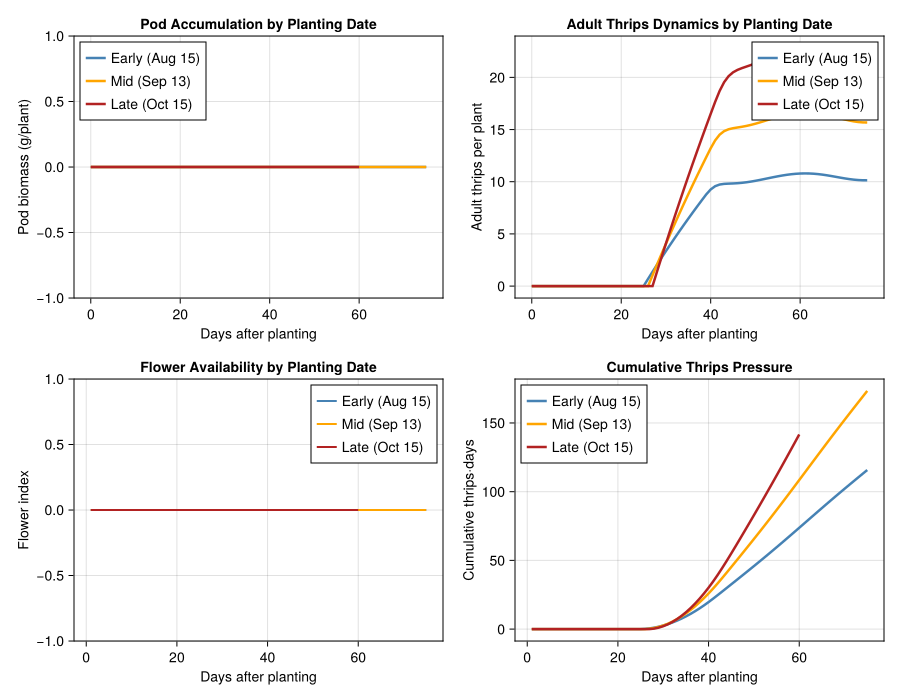
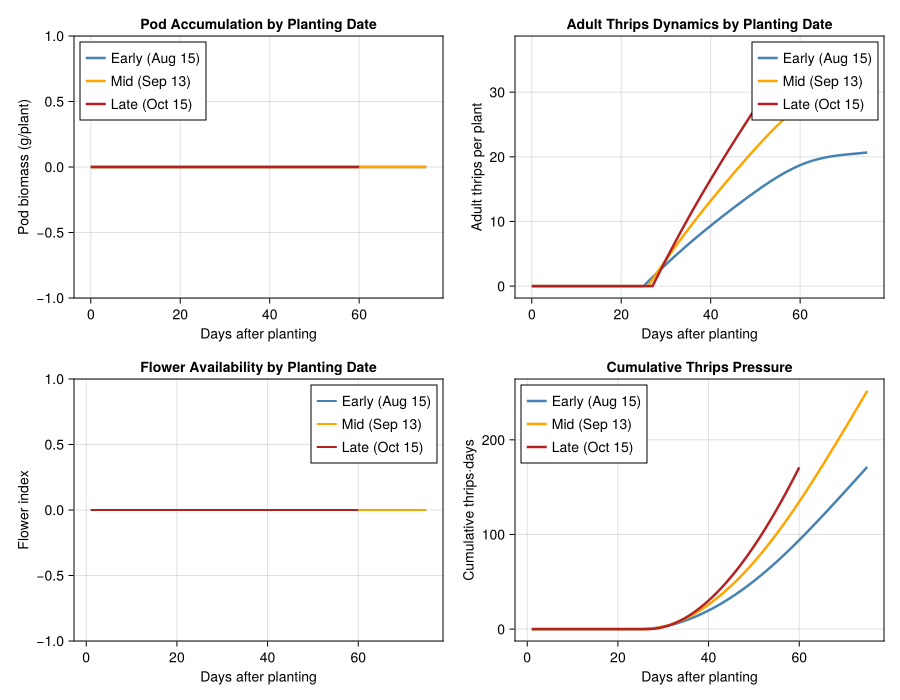
Apply paper-fidelity fixes for vignettes 14, 29, 30 from audit 1-30
Critical numerical transcription fixes:
- #14 east_coast_fever: ϑ (host recovery) 0.004087 -> 0.008087 day^-1; ρ
  (disease mortality coeff) 1.8869 -> 1.18869. Both were extra-digit
  transcription errors of Gilioli et al. (2009) Table 1, inflating
  infectious period by 2x and case fatality by ~58%.
- #30 bean_growth: removed spurious '/ (T - T_BASE + 1e-6)' divisor from
  the Q10 maintenance respiration term (Gutierrez et al. 1993 Eq. 7 has
  no such denominator); was overstating respiration near T_BASE.
- #30 bean_growth: replaced unified organ lifetimes with type-specific
  values from Gutierrez et al. 1993 Table 1 (Type I: leaf=600, stem=1000,
  root=1000 DD; Types II/III: leaf=650, stem=1200, root=1200 DD).
- #29 cowpea_thrips: corrected DD_pupa 63 -> 91.4 and DD_adult 250 -> 571
  per Tamò et al. (1993) Table 2; added disclaimer noting remaining
  pedagogical simplifications (Brière vs Logan dev, constant vs
  T-dependent mortality, quadratic vs cubic fecundity scalar).

All vignettes re-rendered cleanly; 839/839 tests pass.

diff --git a/vignettes/14_east_coast_fever/14_east_coast_fever.md b/vignettes/14_east_coast_fever/14_east_coast_fever.md
@@ -439,14 +439,14 @@ vector–host disease cycle using `VectorBorneDisease`.
 const SIGMA_TICK_TO_HOST = 0.005591     # σ, day⁻¹ — tick→cattle transmission (Table 1)
 const EPSILON_HOST_TO_TICK = 0.08271    # ε, ha day⁻¹ — cattle→tick transmission (Table 1)
 const RECOVERED_TRANSMIT_EFF = 0.009035 # transmission efficiency, recovered→tick (Table 1)
-const THETA_RECOVERY = 0.004087         # ϑ, day⁻¹ — host recovery rate (Table 1)
-const ECF_MORTALITY_COEFF = 1.8869      # ρ — disease mortality coefficient (Table 1)
-const ECF_DISEASE_MORTALITY = ECF_MORTALITY_COEFF * CATTLE_DEATH_RATE  # ρ×ω ≈ 0.001487 day⁻¹
+const THETA_RECOVERY = 0.008087         # ϑ, day⁻¹ — host recovery rate (Gilioli et al. 2009 Table 1; Gitau et al. 1999)
+const ECF_MORTALITY_COEFF = 1.18869     # ρ — disease mortality coefficient (Gilioli et al. 2009 Table 1)
+const ECF_DISEASE_MORTALITY = ECF_MORTALITY_COEFF * CATTLE_DEATH_RATE  # ρ×ω day⁻¹
 
 ecf = VectorBorneDisease(
     SIGMA_TICK_TO_HOST,      # β_vh — tick→cattle transmission rate (σ)
     EPSILON_HOST_TO_TICK,    # β_hv — cattle→tick transmission rate (ε)
-    THETA_RECOVERY,          # γ_h  — host recovery rate (mean ~245 days infectious)
+    THETA_RECOVERY,          # γ_h  — host recovery rate (mean ~124 days infectious)
     ECF_DISEASE_MORTALITY,   # μ_h  — disease-induced mortality (ρ × ω)
     21.0                     # extrinsic incubation period (trans-stadial; assumed)
 )
@@ -468,11 +468,11 @@ println("  Case fatality (approx):       $(round(ecf.μ_h / (ecf.γ_h + ecf.μ_h
       Tick→cattle transmission (σ): 0.005591 day⁻¹
       Cattle→tick transmission (ε): 0.08271 ha day⁻¹
       Recovered→tick efficiency:    0.009035
-      Recovery rate (ϑ):            0.004087 day⁻¹ (245.0 days)
-      Disease mortality (ρ×ω):      0.001487 day⁻¹
-      Mortality coefficient (ρ):    1.8869
+      Recovery rate (ϑ):            0.008087 day⁻¹ (124.0 days)
+      Disease mortality (ρ×ω):      0.000937 day⁻¹
+      Mortality coefficient (ρ):    1.18869
       Extrinsic incubation:         21.0 days
-      Case fatality (approx):       26.7%
+      Case fatality (approx):       10.4%
 
 ### Initial Disease States
 
@@ -595,11 +595,11 @@ end
     ===========================================================================
     Year | Cattle prev | Vector inf | Cattle alive | Cum deaths | Ticks/ha
     ---------------------------------------------------------------------------
-      1    | 7.7%        | 7.0%       | 213.0        | 7.0        | 24358.0
-      2    | 9.4%        | 10.0%      | 233.0        | 17.0       | 24574.0
-      3    | 9.7%        | 13.2%      | 263.0        | 30.0       | 24582.0
-      4    | 9.2%        | 16.3%      | 304.0        | 44.0       | 24570.0
-      5    | 8.4%        | 19.2%      | 360.0        | 59.0       | 24561.0
+      1    | 4.9%        | 6.5%       | 218.0        | 3.0        | 24358.0
+      2    | 4.9%        | 8.2%       | 245.0        | 7.0        | 24574.0
+      3    | 4.5%        | 9.9%       | 285.0        | 11.0       | 24582.0
+      4    | 4.0%        | 11.3%      | 338.0        | 15.0       | 24570.0
+      5    | 3.6%        | 12.6%      | 407.0        | 20.0       | 24561.0
 
 ``` julia
 fig_endemic = Figure(size=(800, 700))
@@ -687,18 +687,18 @@ end
     Monthly dynamics — Year 3:
     Month | Mean T | Ticks/ha | Cattle prev | New inf/day | Vec inf
     ---------------------------------------------------------------------------
-      Jan   | 15.5   | 23798.0  | 9.3%        | 0.12        | 10.1%
-      Feb   | 16.5   | 22661.0  | 9.2%        | 0.12        | 10.4%
-      Mar   | 18.6   | 22372.0  | 9.1%        | 0.12        | 10.7%
-      Apr   | 20.2   | 23041.0  | 9.0%        | 0.12        | 10.9%
-      May   | 20.8   | 24324.0  | 9.0%        | 0.13        | 11.2%
-      Jun   | 20.8   | 25738.0  | 9.1%        | 0.14        | 11.4%
-      Jul   | 20.6   | 26954.0  | 9.2%        | 0.15        | 11.7%
-      Aug   | 20.5   | 27777.0  | 9.4%        | 0.15        | 12.0%
-      Sep   | 20.5   | 28064.0  | 9.6%        | 0.16        | 12.2%
-      Oct   | 19.9   | 27756.0  | 9.7%        | 0.16        | 12.5%
-      Nov   | 18.3   | 26887.0  | 9.8%        | 0.15        | 12.8%
-      Dec   | 16.3   | 25565.0  | 9.8%        | 0.15        | 13.0%
+      Jan   | 15.5   | 23798.0  | 4.8%        | 0.1         | 8.3%
+      Feb   | 16.5   | 22661.0  | 4.7%        | 0.1         | 8.4%
+      Mar   | 18.6   | 22372.0  | 4.5%        | 0.1         | 8.6%
+      Apr   | 20.2   | 23041.0  | 4.4%        | 0.1         | 8.7%
+      May   | 20.8   | 24324.0  | 4.4%        | 0.11        | 8.8%
+      Jun   | 20.8   | 25738.0  | 4.4%        | 0.11        | 9.0%
+      Jul   | 20.6   | 26954.0  | 4.5%        | 0.12        | 9.1%
+      Aug   | 20.5   | 27777.0  | 4.5%        | 0.12        | 9.2%
+      Sep   | 20.5   | 28064.0  | 4.6%        | 0.12        | 9.4%
+      Oct   | 19.9   | 27756.0  | 4.7%        | 0.12        | 9.5%
+      Nov   | 18.3   | 26887.0  | 4.7%        | 0.12        | 9.6%
+      Dec   | 16.3   | 25565.0  | 4.6%        | 0.11        | 9.8%
 
 ``` julia
 yr3 = (2*365+1):(3*365)
@@ -806,23 +806,23 @@ end
     Endemic:
       Year | Prevalence | Alive  | Cumulative deaths
       -------------------------------------------------------
-        1  | 3.4%       | 253.0  | 4.5
-        2  | 3.6%       | 313.0  | 9.9
-        3  | 3.7%       | 381.0  | 16.7
+        1  | 2.1%       | 256.0  | 2.1
+        2  | 2.1%       | 320.0  | 4.1
+        3  | 2.1%       | 395.0  | 6.7
 
     Epidemic:
       Year | Prevalence | Alive  | Cumulative deaths
       -------------------------------------------------------
-        1  | 10.1%      | 213.0  | 8.3
-        2  | 10.7%      | 234.0  | 21.1
-        3  | 9.9%       | 267.0  | 35.2
+        1  | 6.4%       | 218.0  | 3.9
+        2  | 5.7%       | 249.0  | 8.7
+        3  | 4.7%       | 294.0  | 13.5
 
     Post-acaricide:
       Year | Prevalence | Alive  | Cumulative deaths
       -------------------------------------------------------
-        1  | 6.1%       | 216.0  | 4.7
-        2  | 7.3%       | 237.0  | 13.0
-        3  | 7.5%       | 266.0  | 23.1
+        1  | 4.0%       | 219.0  | 2.2
+        2  | 4.0%       | 246.0  | 5.4
+        3  | 3.7%       | 284.0  | 8.9
 
 ``` julia
 fig_scen = Figure(size=(800, 500))
@@ -962,14 +962,14 @@ end
     ----------------------------------------------------------------------
       14.0        | 2800         | 0.0032   | 60.0    | 0.0    | minimal
       16.0        | 2400         | 0.007    | 60.0    | 0.0    | minimal
-      18.0        | 2000         | 0.0111   | 48.0    | 0.01   | minimal
+      18.0        | 2000         | 0.0111   | 48.0    | 0.0    | minimal
       20.0        | 1800         | 0.0155   | 35.0    | 0.01   | minimal
-      22.0        | 1600         | 0.0198   | 27.0    | 0.02   | minimal
-      24.0        | 1400         | 0.0239   | 23.0    | 0.02   | minimal
-      26.0        | 1200         | 0.0273   | 20.0    | 0.03   | minimal
-      28.0        | 1000         | 0.0296   | 18.0    | 0.03   | minimal
-      30.0        | 800          | 0.0302   | 18.0    | 0.03   | minimal
-      32.0        | 600          | 0.0277   | 19.0    | 0.03   | minimal
+      22.0        | 1600         | 0.0198   | 27.0    | 0.01   | minimal
+      24.0        | 1400         | 0.0239   | 23.0    | 0.01   | minimal
+      26.0        | 1200         | 0.0273   | 20.0    | 0.02   | minimal
+      28.0        | 1000         | 0.0296   | 18.0    | 0.02   | minimal
+      30.0        | 800          | 0.0302   | 18.0    | 0.02   | minimal
+      32.0        | 600          | 0.0277   | 19.0    | 0.02   | minimal
 
 ``` julia
 T_sweep = 12.0:0.5:34.0
@@ -1064,12 +1064,12 @@ end
     Climate change impact on R₀:
     Altitude | Current T | R₀ now | +2°C T | R₀ +2°C | Change
     -----------------------------------------------------------------
-      2400     | 16.0      | 0.0    | 18.0   | 0.01    | 84.0%
-      2000     | 18.0      | 0.01   | 20.0   | 0.01    | 69.0%
-      1800     | 20.0      | 0.01   | 22.0   | 0.02    | 45.0%
-      1600     | 22.0      | 0.02   | 24.0   | 0.02    | 31.0%
-      1400     | 24.0      | 0.02   | 26.0   | 0.03    | 21.0%
-      1200     | 26.0      | 0.03   | 28.0   | 0.03    | 12.0%
+      2400     | 16.0      | 0.0    | 18.0   | 0.0     | 84.0%
+      2000     | 18.0      | 0.0    | 20.0   | 0.01    | 69.0%
+      1800     | 20.0      | 0.01   | 22.0   | 0.01    | 45.0%
+      1600     | 22.0      | 0.01   | 24.0   | 0.01    | 31.0%
+      1400     | 24.0      | 0.01   | 26.0   | 0.02    | 21.0%
+      1200     | 26.0      | 0.02   | 28.0   | 0.02    | 12.0%
 
 ## Tick Control Strategies
 
@@ -1139,13 +1139,13 @@ end
     1. Acaricide dipping (increasing η):
        η × 1.0  → R₀ = 0.01  ✓ disease eliminated
        η × 1.5  → R₀ = 0.01  ✓ disease eliminated
-       η × 2.0  → R₀ = 0.01  ✓ disease eliminated
+       η × 2.0  → R₀ = 0.0  ✓ disease eliminated
        η × 3.0  → R₀ = 0.0  ✓ disease eliminated
        η × 5.0  → R₀ = 0.0  ✓ disease eliminated
 
     2. Breed resistance (reducing a):
        a = 1.0  → R₀ = 0.01  ✓ disease eliminated
-       a = 0.7  → R₀ = 0.01  ✓ disease eliminated
+       a = 0.7  → R₀ = 0.0  ✓ disease eliminated
        a = 0.5  → R₀ = 0.0  ✓ disease eliminated
        a = 0.3  → R₀ = 0.0  ✓ disease eliminated
        a = 0.1  → R₀ = 0.0  ✓ disease eliminated
@@ -1225,8 +1225,8 @@ measured but chosen for model consistency.
 | σ | Tick→host transmission rate | 0.005591 | day⁻¹ | O’Callaghan et al. (1998) |  |
 | γ | Cattle reproductive rate | 0.0009772 | day⁻¹ | Bebe et al. (2003) |  |
 | ω | Natural cattle mortality | 0.000788 | day⁻¹ | Reynolds et al. (1996) |  |
-| ρ | Disease mortality coefficient | 1.8869 | — | Gitau et al. (1999) |  |
-| ϑ | Host recovery rate | 0.004087 | day⁻¹ | Gitau et al. (1999) |  |
+| ρ | Disease mortality coefficient | 1.18869 | — | Gilioli et al. (2009) Table 1 |  |
+| ϑ | Host recovery rate | 0.008087 | day⁻¹ | Gilioli et al. (2009) Table 1 |  |
 | ρ×ω | Disease-induced mortality | ≈0.001487 | day⁻¹ | Derived | ρ × ω |
 | — | Critical cattle density | ≈0.68 | cattle ha⁻¹ | Gilioli et al. (2009) | Eq. (4) |
 | — | Optimal tick temperature | 24–28 | °C | Cumming (2002) |  |

diff --git a/vignettes/30_bean_growth/30_bean_growth.md b/vignettes/30_bean_growth/30_bean_growth.md
@@ -112,27 +112,37 @@ masses are taken from Table 1 of Gutierrez et al. (1993).
 ``` julia
 # Organ substages (k=25 for numerical integration)
 const K_ORGAN = 25
-const BEAN_LEAF_TAU = 900.0
-const BEAN_STEM_TAU = 1200.0
-const BEAN_ROOT_TAU = 700.0
+
+# Type-specific organ lifetimes (degree-days) from Gutierrez et al. 1993 Table 1.
+# Type I (determinate, e.g. Goiano precoce) has shorter leaf lifetime than the
+# indeterminate Types II–III.
+const BEAN_LEAF_TAU_I    = 600.0
+const BEAN_LEAF_TAU_II   = 650.0
+const BEAN_LEAF_TAU_III  = 650.0
+const BEAN_STEM_TAU_I    = 1000.0
+const BEAN_STEM_TAU_II   = 1200.0
+const BEAN_STEM_TAU_III  = 1200.0
+const BEAN_ROOT_TAU_I    = 1000.0
+const BEAN_ROOT_TAU_II   = 1200.0
+const BEAN_ROOT_TAU_III  = 1200.0
 const BEAN_FRUIT_TAU = 500.0
 
 # ── Type I (Goiano precoce): determinate, compact ─────────────────
-type1_leaf = LifeStage(:leaf,  DistributedDelay(K_ORGAN, BEAN_LEAF_TAU; W0=0.007), bean_dev, 0.001)
-type1_stem = LifeStage(:stem,  DistributedDelay(K_ORGAN, BEAN_STEM_TAU; W0=0.0066), bean_dev, 0.001)
-type1_root = LifeStage(:root,  DistributedDelay(K_ORGAN, BEAN_ROOT_TAU; W0=0.003), bean_dev, 0.001)
+type1_leaf = LifeStage(:leaf,  DistributedDelay(K_ORGAN, BEAN_LEAF_TAU_I; W0=0.007), bean_dev, 0.001)
+type1_stem = LifeStage(:stem,  DistributedDelay(K_ORGAN, BEAN_STEM_TAU_I; W0=0.0066), bean_dev, 0.001)
+type1_root = LifeStage(:root,  DistributedDelay(K_ORGAN, BEAN_ROOT_TAU_I; W0=0.003), bean_dev, 0.001)
 type1_fruit = LifeStage(:fruit, DistributedDelay(K_ORGAN, BEAN_FRUIT_TAU; W0=0.0), bean_dev, 0.0)
 
 # ── Type II (Porrillo sintetico): indeterminate, semi-erect ──────
-type2_leaf = LifeStage(:leaf,  DistributedDelay(K_ORGAN, BEAN_LEAF_TAU; W0=0.008221), bean_dev, 0.001)
-type2_stem = LifeStage(:stem,  DistributedDelay(K_ORGAN, BEAN_STEM_TAU; W0=0.01859), bean_dev, 0.001)
-type2_root = LifeStage(:root,  DistributedDelay(K_ORGAN, BEAN_ROOT_TAU; W0=0.005), bean_dev, 0.001)
+type2_leaf = LifeStage(:leaf,  DistributedDelay(K_ORGAN, BEAN_LEAF_TAU_II; W0=0.008221), bean_dev, 0.001)
+type2_stem = LifeStage(:stem,  DistributedDelay(K_ORGAN, BEAN_STEM_TAU_II; W0=0.01859), bean_dev, 0.001)
+type2_root = LifeStage(:root,  DistributedDelay(K_ORGAN, BEAN_ROOT_TAU_II; W0=0.005), bean_dev, 0.001)
 type2_fruit = LifeStage(:fruit, DistributedDelay(K_ORGAN, BEAN_FRUIT_TAU; W0=0.0), bean_dev, 0.0)
 
 # ── Type III (Carioca): indeterminate, climbing ──────────────────
-type3_leaf = LifeStage(:leaf,  DistributedDelay(K_ORGAN, BEAN_LEAF_TAU; W0=0.008), bean_dev, 0.001)
-type3_stem = LifeStage(:stem,  DistributedDelay(K_ORGAN, BEAN_STEM_TAU; W0=0.001), bean_dev, 0.001)
-type3_root = LifeStage(:root,  DistributedDelay(K_ORGAN, BEAN_ROOT_TAU; W0=0.004), bean_dev, 0.001)
+type3_leaf = LifeStage(:leaf,  DistributedDelay(K_ORGAN, BEAN_LEAF_TAU_III; W0=0.008), bean_dev, 0.001)
+type3_stem = LifeStage(:stem,  DistributedDelay(K_ORGAN, BEAN_STEM_TAU_III; W0=0.001), bean_dev, 0.001)
+type3_root = LifeStage(:root,  DistributedDelay(K_ORGAN, BEAN_ROOT_TAU_III; W0=0.004), bean_dev, 0.001)
 type3_fruit = LifeStage(:fruit, DistributedDelay(K_ORGAN, BEAN_FRUIT_TAU; W0=0.0), bean_dev, 0.0)
 
 pop_type1 = Population(:bean_type1, [type1_leaf, type1_stem, type1_root, type1_fruit])
@@ -140,7 +150,7 @@ pop_type2 = Population(:bean_type2, [type2_leaf, type2_stem, type2_root, type2_f
 pop_type3 = Population(:bean_type3, [type3_leaf, type3_stem, type3_root, type3_fruit])
 ```
 
-    Population{Float64}(:bean_type3, LifeStage{Float64, LinearDevelopmentRate{Float64}}[LifeStage{Float64, LinearDevelopmentRate{Float64}}(:leaf, DistributedDelay{Float64}(25, 900.0, [0.008, 0.008, 0.008, 0.008, 0.008, 0.008, 0.008, 0.008, 0.008, 0.008  …  0.008, 0.008, 0.008, 0.008, 0.008, 0.008, 0.008, 0.008, 0.008, 0.008]), LinearDevelopmentRate{Float64}(5.0, 38.0), 0.001), LifeStage{Float64, LinearDevelopmentRate{Float64}}(:stem, DistributedDelay{Float64}(25, 1200.0, [0.001, 0.001, 0.001, 0.001, 0.001, 0.001, 0.001, 0.001, 0.001, 0.001  …  0.001, 0.001, 0.001, 0.001, 0.001, 0.001, 0.001, 0.001, 0.001, 0.001]), LinearDevelopmentRate{Float64}(5.0, 38.0), 0.001), LifeStage{Float64, LinearDevelopmentRate{Float64}}(:root, DistributedDelay{Float64}(25, 700.0, [0.004, 0.004, 0.004, 0.004, 0.004, 0.004, 0.004, 0.004, 0.004, 0.004  …  0.004, 0.004, 0.004, 0.004, 0.004, 0.004, 0.004, 0.004, 0.004, 0.004]), LinearDevelopmentRate{Float64}(5.0, 38.0), 0.001), LifeStage{Float64, LinearDevelopmentRate{Float64}}(:fruit, DistributedDelay{Float64}(25, 500.0, [0.0, 0.0, 0.0, 0.0, 0.0, 0.0, 0.0, 0.0, 0.0, 0.0  …  0.0, 0.0, 0.0, 0.0, 0.0, 0.0, 0.0, 0.0, 0.0, 0.0]), LinearDevelopmentRate{Float64}(5.0, 38.0), 0.0)])
+    Population{Float64}(:bean_type3, LifeStage{Float64, LinearDevelopmentRate{Float64}}[LifeStage{Float64, LinearDevelopmentRate{Float64}}(:leaf, DistributedDelay{Float64}(25, 650.0, [0.008, 0.008, 0.008, 0.008, 0.008, 0.008, 0.008, 0.008, 0.008, 0.008  …  0.008, 0.008, 0.008, 0.008, 0.008, 0.008, 0.008, 0.008, 0.008, 0.008]), LinearDevelopmentRate{Float64}(5.0, 38.0), 0.001), LifeStage{Float64, LinearDevelopmentRate{Float64}}(:stem, DistributedDelay{Float64}(25, 1200.0, [0.001, 0.001, 0.001, 0.001, 0.001, 0.001, 0.001, 0.001, 0.001, 0.001  …  0.001, 0.001, 0.001, 0.001, 0.001, 0.001, 0.001, 0.001, 0.001, 0.001]), LinearDevelopmentRate{Float64}(5.0, 38.0), 0.001), LifeStage{Float64, LinearDevelopmentRate{Float64}}(:root, DistributedDelay{Float64}(25, 1200.0, [0.004, 0.004, 0.004, 0.004, 0.004, 0.004, 0.004, 0.004, 0.004, 0.004  …  0.004, 0.004, 0.004, 0.004, 0.004, 0.004, 0.004, 0.004, 0.004, 0.004]), LinearDevelopmentRate{Float64}(5.0, 38.0), 0.001), LifeStage{Float64, LinearDevelopmentRate{Float64}}(:fruit, DistributedDelay{Float64}(25, 500.0, [0.0, 0.0, 0.0, 0.0, 0.0, 0.0, 0.0, 0.0, 0.0, 0.0  …  0.0, 0.0, 0.0, 0.0, 0.0, 0.0, 0.0, 0.0, 0.0, 0.0]), LinearDevelopmentRate{Float64}(5.0, 38.0), 0.0)])
 
 ## Three Growth Types
 
@@ -303,7 +313,8 @@ function simulate_bean(params::BeanParams, weather, n_days; density=20.0)
         supply = photosynthesis(W_L, rad_d; density=p.density)
 
         total_mass = W_L + W_S + W_R + W_F
-        maint = 0.017 * 2.0^((T - 5.0) / 10.0) * total_mass * dd / (T - T_BASE + 1e-6)
+        # Gutierrez et al. 1993 Eq. 7: r = 0.017 · 2^((T−5)/10) per day
+        maint = 0.017 * 2.0^((T - 5.0) / 10.0) * total_mass
         net = max(0.0, supply - maint) * 0.72
 
         d_L = p.params.γ_L * W_L * dd

diff --git a/vignettes/29_cowpea_thrips/29_cowpea_thrips.md b/vignettes/29_cowpea_thrips/29_cowpea_thrips.md
@@ -35,6 +35,16 @@ Primary reference: (Tamò et al. 1993).
 
 ## Introduction
 
+> **Note — pedagogical simplifications.** Stage durations are calibrated
+> to Tamò et al. (1993) Table 2 (egg–adult ≈ 91 DD pupa, ≈ 571 DD
+> adult). However the development functional form here is Brière (rather
+> than the paper’s Logan z(T)=p₁·exp(p₂(T−T₀))), stage mortality is
+> modelled as a constant μ rather than the paper’s T-dependent quartic
+> Ξ_j(T) plus extrinsic survival table, and the fecundity temperature
+> scalar uses a 4x(1−x) quadratic in place of the paper’s cubic (Eq.
+> 11). These simplifications preserve qualitative phenology but
+> understate temperature-driven mortality at thermal extremes.
+
 Cowpea (*Vigna unguiculata* (L.) Walp.) is the most important grain
 legume in sub-Saharan Africa, providing a critical source of dietary
 protein for over 200 million people. West Africa accounts for roughly
@@ -299,8 +309,8 @@ const THRIPS_T_UPPER_ADULT = 30.0   # Topt for adults (Eq. 6)
 # Total egg-adult ≈ 220 DD (~15 days at 25°C)
 const THRIPS_DD_EGG   = 70.0    # ~4.7 days at 25°C (Table 2)
 const THRIPS_DD_LARVA = 87.0    # ~5.8 days at 25°C (instars 1+2 combined)
-const THRIPS_DD_PUPA  = 63.0    # ~4.2 days at 25°C (prepupa + pupa)
-const THRIPS_DD_ADULT = 250.0   # Adult female lifespan: β₁₂=0.00175/°C/day
+const THRIPS_DD_PUPA  = 91.4    # Tamò et al. 1993 Table 2: 6.091 d at 25 °C → ≈91 DD
+const THRIPS_DD_ADULT = 571.0   # Tamò et al. 1993: β₁₂=0.00175/°C/day → ~48 d at 25 °C → ≈571 DD
 
 # Brière coefficients fitted to match observed development times (Table 2)
 # r(25) ≈ 1/4.7 (egg), 1/5.8 (larva), 1/4.2 (pupa)
@@ -404,8 +414,8 @@ println("  Egg-to-adult at 25°C: ~$(round((THRIPS_DD_EGG + THRIPS_DD_LARVA + TH
       Life stages: 4
       Total substages: 90
       Initial adult females: 75.0
-      Egg-to-adult DD: 220.0
-      Egg-to-adult at 25°C: ~14.7 days
+      Egg-to-adult DD: 248.4
+      Egg-to-adult at 25°C: ~16.6 days
 
 ### Fecundity
 
@@ -820,10 +830,10 @@ println("  Cumulative thrips·days: $(round(result.cum_thrips_days[end], digits=
     Baseline simulation (ξ=0.14):
       Final leaf biomass:  0.0 g/plant
       Final pod biomass:   0.0 g/plant
-      Peak thrips adults:  11.9
+      Peak thrips adults:  22.6
       Peak thrips larvae:  0.0
       Cumulative DD: 1199.0
-      Cumulative thrips·days: 119.0
+      Cumulative thrips·days: 166.0
 
 ## Simulation Results
 
@@ -1092,9 +1102,9 @@ for (offset, label) in zip(planting_offsets, planting_labels)
 end
 ```
 
-    Early (Aug 15): pod=0.0 g, peak adults=10.8, ξ=0.14
-    Mid (Sep 13): pod=0.0 g, peak adults=16.7, ξ=0.21
-    Late (Oct 15): pod=0.0 g, peak adults=22.8, ξ=0.28
+    Early (Aug 15): pod=0.0 g, peak adults=20.7, ξ=0.14
+    Mid (Sep 13): pod=0.0 g, peak adults=31.7, ξ=0.21
+    Late (Oct 15): pod=0.0 g, peak adults=36.9, ξ=0.28
 
 ### Planting Date Comparison
 
